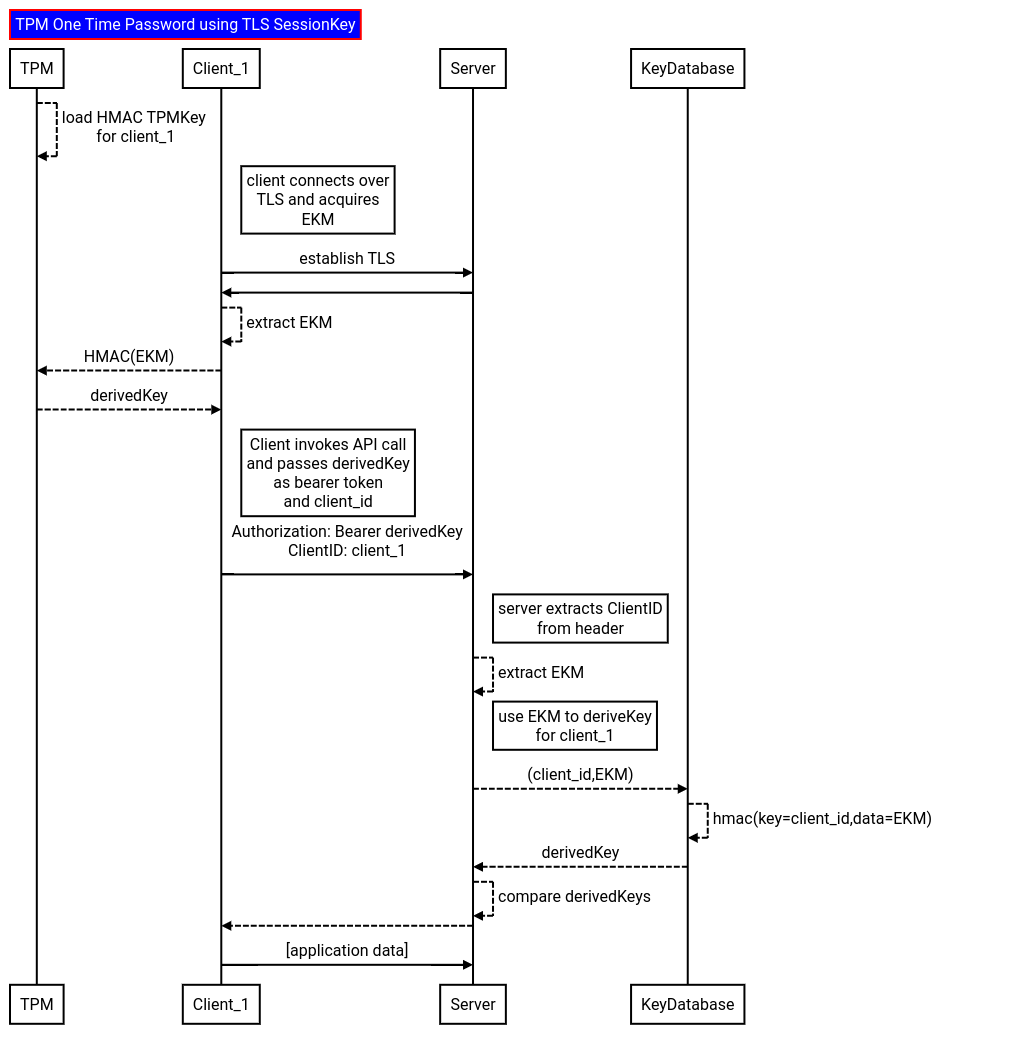
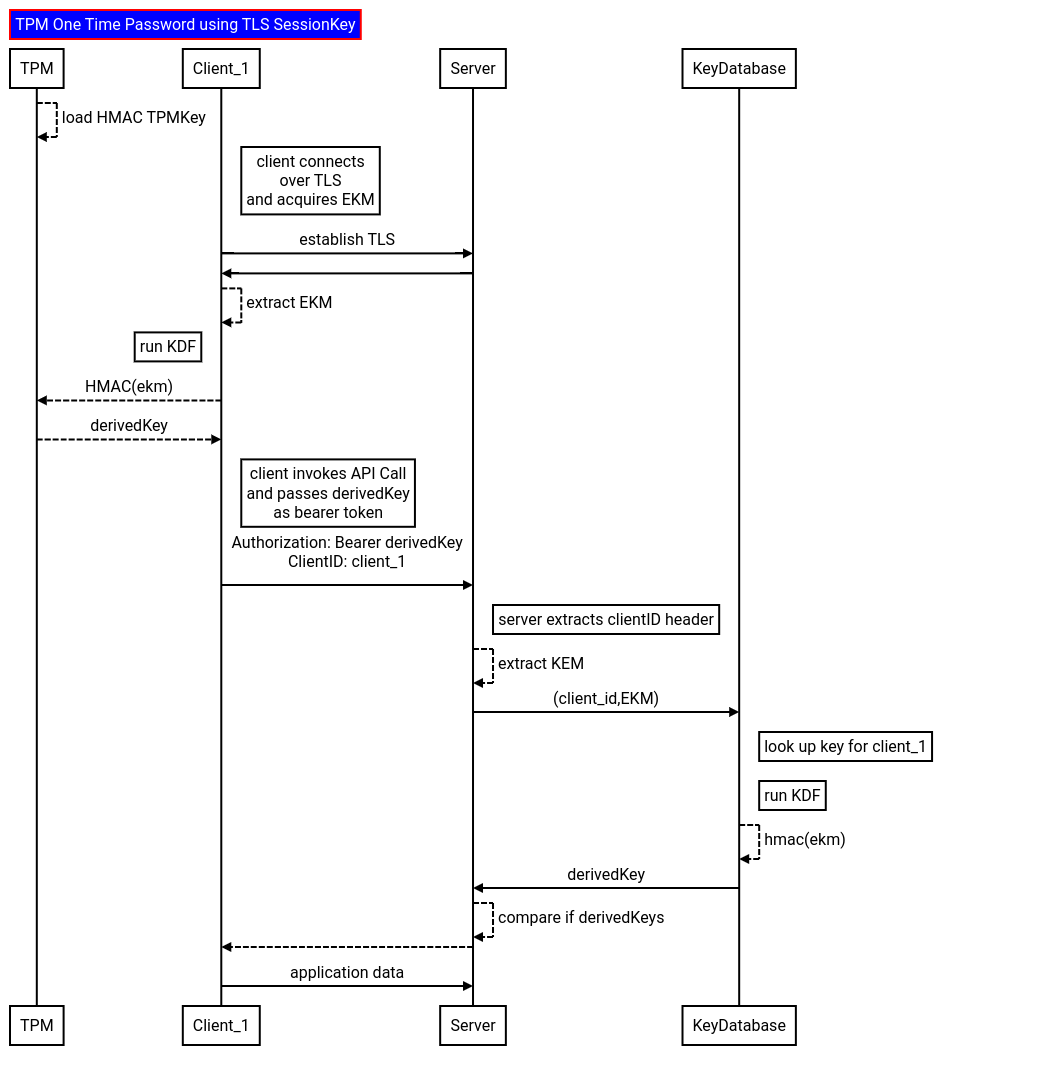
apply kdf

diff --git a/server/main.go b/server/main.go
@@ -2,8 +2,6 @@ package main
 
 import (
 	"context"
-	"crypto/hmac"
-	"crypto/sha256"
 	"crypto/tls"
 	"encoding/base64"
 	"flag"
@@ -14,10 +12,10 @@ import (
 	"slices"
 
 	//"net/http/httputil"
-
 	"github.com/google/go-tpm-tools/simulator"
 	"github.com/google/go-tpm/tpmutil"
 	"github.com/gorilla/mux"
+	"github.com/hashicorp/vault/sdk/helper/kdf"
 	"golang.org/x/net/http2"
 )
 
@@ -55,19 +53,13 @@ func eventsMiddleware(h http.Handler) http.Handler {
 			return
 		}
 
-		// Start standard HMAC
-		mac := hmac.New(sha256.New, []byte(*key))
-		mac.Write(ekm)
-		derivedKey := mac.Sum(nil)
-		// End standard HMAC
+		prf := kdf.HMACSHA256PRF
+		prfLen := kdf.HMACSHA256PRFLen
 
-		// start TPM HMAC
-		// derivedKey, err := common.TPMHMAC(*tpmPath, *in, ekm)
-		// if err != nil {
-		// 	http.Error(w, "Error calculating hmac %v\n", http.StatusInternalServerError)
-		// 	return
-		// }
-		// end TPM HMAC
+		derivedKey, err := kdf.CounterMode(prf, prfLen, []byte(*key), ekm, 256)
+		if err != nil {
+			panic(err)
+		}
 
 		fmt.Printf("derived APIKey: %s\n", base64.StdEncoding.EncodeToString(ekm))
 
@@ -78,7 +70,8 @@ func eventsMiddleware(h http.Handler) http.Handler {
 		}
 
 		if base64.StdEncoding.EncodeToString(derivedKey) != e {
-			http.Error(w, "Error: no ekm provided in header", http.StatusInternalServerError)
+			fmt.Printf("%v\n", err)
+			http.Error(w, "Error: error decoding derivedKey", http.StatusInternalServerError)
 			return
 		}
 

diff --git a/client/main.go b/client/main.go
@@ -2,14 +2,13 @@ package main
 
 import (
 	"context"
-	"crypto/hmac"
-	"crypto/sha256"
 	"crypto/tls"
 	"crypto/x509"
 	"encoding/base64"
 	"flag"
 	"fmt"
 	"io"
+	"main/common"
 	"net"
 	"net/http"
 	"os"
@@ -17,6 +16,7 @@ import (
 
 	"github.com/google/go-tpm-tools/simulator"
 	"github.com/google/go-tpm/tpmutil"
+	"github.com/hashicorp/vault/sdk/helper/kdf"
 )
 
 var (
@@ -73,17 +73,25 @@ func main() {
 	}
 
 	// Start standard HMAC
-	mac := hmac.New(sha256.New, []byte(*key))
-	mac.Write(ekm)
-	derivedKey := mac.Sum(nil)
+	//prf := kdf.HMACSHA256PRF
+	prfLen := kdf.HMACSHA256PRFLen
+
+	// derivedKey, err := kdf.CounterMode(prf, prfLen, []byte(*key), ekm, 256)
+	// if err != nil {
+	// 	fmt.Printf("Error getting ekm %v\n", err)
+	// 	return
+	// }
 	// End standard HMAC
 
 	// start TPM HMAC
-	// derivedKey, err := common.TPMHMAC(*tpmPath, *in, ekm)
-	// if err != nil {
-	// 	fmt.Printf("Error calculating hmac %v\n", err)
-	// 	return
-	// }
+
+	derivedKey, err := kdf.CounterMode(func(key []byte, data []byte) ([]byte, error) {
+		return common.TPMHMAC(*tpmPath, *in, data)
+	}, prfLen, nil, ekm, 256)
+	if err != nil {
+		fmt.Printf("Error getting ekm %v\n", err)
+		return
+	}
 	// end TPM HMAC
 
 	fmt.Printf("derived APIKey: %s\n", base64.StdEncoding.EncodeToString(ekm))

diff --git a/README.md b/README.md
@@ -19,11 +19,11 @@ As shown:
 1. client loads the shared hmac key
 2. client connects to server over TLS
 3. client extracts the EKM
-4. client derives the sessionKey though calling HMAC(EKM)
+4. client derives the sessionKey though calling KDF with HMAC(EKM)
 5. client sends the sessionKey and its own client identifier to the server
 6. server derives the EKM
 7. sever extracts the client_identifer
-8. server acquires the deriveKey using hmac(client_identifier, EKM)
+8. server acquires the deriveKey using KDF with hmac(client_identifier, EKM)
 9. if derivedKeys match, proceed.
 
 
